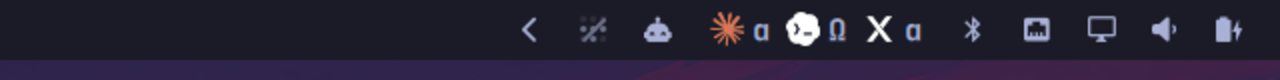
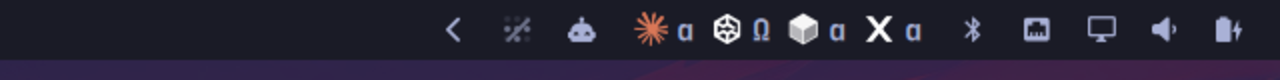
0.5.0: instant settings, activity meters, all-tools mode, brand-like marks

Changed region(s): [[0.3438, 0.15, 0.6875, 0.575]]

diff --git a/Panel.qml b/Panel.qml
@@ -24,12 +24,18 @@ Panel {
   readonly property color track: Style.selectedFillFor(foreground, Color.accent)
   readonly property string fontFamily: bar ? bar.fontFamily : Style.font.family
 
-  readonly property real warnFraction: Math.max(0.5, Math.min(1, Number(setting("limitWarnPercent", 85)) / 100))
-  readonly property bool showGlyphs: setting("showGlyphs", true) !== false
-  readonly property bool compactBar: setting("compactBar", false) === true
-  readonly property bool barShowUnsigned: setting("barShowUnsigned", false) === true
+  // Widget settings come from shell.json; a change made in the settings page
+  // is applied locally at once and the file catches up when the shell reloads.
+  property var pending: ({})
+  onSettingsChanged: pending = ({})
+  function opt(name, fallback) { return pending[name] !== undefined ? pending[name] : setting(name, fallback) }
+  readonly property real warnFraction: Math.max(0.5, Math.min(1, Number(opt("limitWarnPercent", 85)) / 100))
+  readonly property bool showGlyphs: opt("showGlyphs", true) !== false
+  readonly property bool compactBar: opt("compactBar", false) === true
+  readonly property bool barShowUnsigned: opt("barShowUnsigned", false) === true
+  readonly property bool showAllTools: opt("showAllTools", false) === true
   // "masked" (cyc…@example.com), "hidden" (never shown), or "full"
-  readonly property string emailDisplay: String(setting("emailDisplay", "masked"))
+  readonly property string emailDisplay: String(opt("emailDisplay", "masked"))
 
   // The bar only lists tools you are signed in to (at least one profile);
   // the panel still lists every discovered tool so you can sign the rest in.
@@ -51,13 +57,31 @@ Panel {
     return 0
   }
   readonly property var selectedTool: tools.length > 0 ? tools[selectedToolIndex] : null
-  readonly property var tabProfiles: selectedTool ? selectedTool.profiles : []
+  readonly property var tabProfiles: showAllTools ? profiles : (selectedTool ? selectedTool.profiles : [])
+  readonly property var shownTools: showAllTools ? tools : (selectedTool ? [selectedTool] : [])
   function selectTab(index) {
     if (tools.length === 0) return
     var i = ((index % tools.length) + tools.length) % tools.length
-    selectedToolId = tools[i].id; cursor = 0
+    selectedToolId = tools[i].id
+    if (showAllTools) { var item = blocks.itemAt(i); if (item) panelFlick.contentY = Math.min(item.y + toolsColumn.y, Math.max(0, panelFlick.contentHeight - panelFlick.height)) }
+    else cursor = 0
   }
-  readonly property string legend: "j/k  select account\nEnter  use\ni  sign in\nt  terminal\nh/l  previous / next tool\nr  refresh usage\ns  settings\ne  edit registry\nEsc  back / close"
+  // activity meter for accounts without published limits: today against the 7-day peak
+  function activityFraction(p) {
+    var a = p && p.activity; if (!a) return 0
+    if (a.peakTokens > 0) return Math.max(0, Math.min(1, a.todayTokens / a.peakTokens))
+    if (a.peakPrompts > 0) return Math.max(0, Math.min(1, a.todayPrompts / a.peakPrompts))
+    return a.todayPrompts > 0 || a.todaySessions > 0 ? 1 : 0
+  }
+  function activityText(p) {
+    var a = p && p.activity; if (!a) return ""
+    var bits = []
+    if (a.todayPrompts) bits.push(a.todayPrompts + (a.todayPrompts === 1 ? " prompt" : " prompts"))
+    if (a.todayTokens) bits.push(a.todayTokens >= 1e6 ? (a.todayTokens / 1e6).toFixed(1) + "M tokens" : a.todayTokens >= 1e3 ? Math.round(a.todayTokens / 1e3) + "k tokens" : a.todayTokens + " tokens")
+    if (!bits.length && a.todaySessions) bits.push(a.todaySessions + (a.todaySessions === 1 ? " session" : " sessions"))
+    return bits.join(" · ") || "nothing yet"
+  }
+  readonly property string legend: "j/k  select account\nEnter  use\ni  sign in\nt  terminal\nh/l  previous / next tool\na  all tools / one tool\nr  refresh usage\ns  settings\ne  edit registry\nEsc  back / close"
 
   readonly property var tools: accounts.tools
   readonly property var profiles: accounts.profiles
@@ -161,10 +185,11 @@ Panel {
 
   // ---- actions ----
   function moveCursor(dy) { if (tabProfiles.length === 0) return; cursorActive = true; cursor = ((cursor + dy) % tabProfiles.length + tabProfiles.length) % tabProfiles.length }
-  function tabIndexOf(p) { for (var i = 0; i < tabProfiles.length; i++) if (tabProfiles[i].id === p.id) return i; return -1 }
+  function tabIndexOf(p) { for (var i = 0; i < tabProfiles.length; i++) if (tabProfiles[i].id === p.id && tabProfiles[i].tool === p.tool) return i; return -1 }
   // widget settings live in shell.json; omarchy-bar set writes them and the shell hot-reloads
   function setWidgetSetting(key, value, json) {
     if (!bar) return
+    var next = {}; for (var k in pending) next[k] = pending[k]; next[key] = value; pending = next
     bar.run("omarchy-bar set " + shellQuote(moduleName) + " " + shellQuote(key) + " " + shellQuote(String(value)) + (json ? " --json" : ""))
   }
   function useCursor() { var p = cursorProfile; if (p && !p.active) accounts.use(p.tool, p.id) }
@@ -191,6 +216,7 @@ Panel {
     function next(tool: string): string { root.nextTool(tool); return "ok" }
     function status(): string { return JSON.stringify(root.profiles) }
     function settings(): void { root.open(); root.view = "settings" }
+    function tab(tool: string): string { for (var i = 0; i < root.tools.length; i++) if (root.tools[i].id === tool) { root.selectTab(i); root.open(); root.view = "accounts"; return "ok" } return "unknown tool" }
   }
 
   visible: accounts.available && (root.barTools.length > 0 || root.tools.length > 0)
@@ -311,6 +337,7 @@ Panel {
         if (t === "r" || t === "R") root.refreshNow()
         else if (t === "s" || t === "S") root.view = root.view === "settings" ? "accounts" : "settings"
         else if (t === "e" || t === "E") root.openEditor()
+        else if (t === "a" || t === "A") root.setWidgetSetting("showAllTools", !root.showAllTools, true)
         else if (root.view !== "accounts") return
         else if (t === "i" || t === "I") root.loginCursor()
         else if (t === "t" || t === "T") root.shellCursor()
@@ -494,9 +521,23 @@ Panel {
               }
             }
 
-            // ---------- Selected tool ----------
+            // ---------- Tool blocks: one (tab mode) or all ----------
+            Column {
+              id: toolsColumn
+              width: parent.width
+              spacing: Style.space(10)
+              Repeater {
+                id: blocks
+                model: root.shownTools
+                Column {
+                  id: block
+                  required property var modelData
+                  required property int index
+                  readonly property var tool: modelData
+                  width: toolsColumn.width
+                  spacing: Style.space(4)
             Item {
-              visible: !!root.selectedTool
+              visible: !!block.tool
               width: parent.width
               height: Style.space(22)
               Row {
@@ -505,12 +546,12 @@ Panel {
                 spacing: Style.space(6)
                 PanelSectionHeader {
                   anchors.verticalCenter: parent.verticalCenter
-                  text: root.selectedTool ? root.selectedTool.name.toUpperCase() + " ACCOUNTS" : ""
+                  text: block.tool ? block.tool.name.toUpperCase() + " ACCOUNTS" : ""
                   foreground: root.foreground
                   fontFamily: root.fontFamily
                 }
                 Text {
-                  visible: !!root.selectedTool && !root.selectedTool.hasUsage
+                  visible: !!block.tool && !block.tool.hasUsage
                   anchors.verticalCenter: parent.verticalCenter
                   textFormat: Text.PlainText
                   text: "· no usage feed"
@@ -524,21 +565,21 @@ Panel {
                 anchors.verticalCenter: parent.verticalCenter
                 spacing: Style.space(6)
                 Rectangle {
-                  visible: !!root.selectedTool && root.selectedTool.autoRotate
+                  visible: !!block.tool && block.tool.autoRotate
                   width: autoTxt.implicitWidth + Style.space(12); height: Style.space(16); radius: height / 2
                   color: root.alpha(root.accent, 0.12); border.width: 1; border.color: root.alpha(root.accent, 0.35)
                   Text { id: autoTxt; anchors.centerIn: parent; textFormat: Text.PlainText; text: " auto"; color: root.accent; font.family: root.fontFamily; font.pixelSize: Style.font.caption }
                 }
                 Rectangle {
                   id: activePill
-                  visible: !!root.selectedTool && !!root.selectedTool.active
+                  visible: !!block.tool && !!block.tool.active
                   width: activeTxt.implicitWidth + Style.space(14); height: Style.space(16); radius: height / 2
                   color: root.alpha(root.accent, 0.12); border.width: 1; border.color: root.alpha(root.accent, 0.35)
-                  Text { id: activeTxt; anchors.centerIn: parent; textFormat: Text.PlainText; text: root.selectedTool && root.selectedTool.active ? "● " + root.selectedTool.active.label + "  " : ""; color: root.accent; font.family: root.fontFamily; font.pixelSize: Style.font.caption }
+                  Text { id: activeTxt; anchors.centerIn: parent; textFormat: Text.PlainText; text: block.tool && block.tool.active ? "● " + block.tool.active.label + "  " : ""; color: root.accent; font.family: root.fontFamily; font.pixelSize: Style.font.caption }
                   MouseArea {
                     anchors.fill: parent; hoverEnabled: true; cursorShape: Qt.PointingHandCursor
-                    onClicked: if (root.selectedTool) root.nextTool(root.selectedTool.id)
-                    onEntered: if (root.bar) root.bar.showTooltip(activePill, "Click: switch to the next " + (root.selectedTool ? root.selectedTool.name : "") + " account")
+                    onClicked: if (block.tool) root.nextTool(block.tool.id)
+                    onEntered: if (root.bar) root.bar.showTooltip(activePill, "Click: switch to the next " + (block.tool ? block.tool.name : "") + " account")
                     onExited: if (root.bar) root.bar.hideTooltip(activePill)
                   }
                 }
@@ -546,7 +587,7 @@ Panel {
             }
 
             Repeater {
-              model: root.tabProfiles
+              model: block.tool ? block.tool.profiles : []
               Rectangle {
                 id: row
                 required property var modelData
@@ -613,7 +654,7 @@ Panel {
                     spacing: Style.space(1)
                     Text {
                       textFormat: Text.PlainText
-                      text: row.p.label + (root.headroomId(root.selectedTool) === row.p.id ? " ▲" : "")
+                      text: row.p.label + (root.headroomId(block.tool) === row.p.id ? " ▲" : "")
                       color: root.foreground; font.family: root.fontFamily; font.pixelSize: Style.font.body; font.bold: true
                       elide: Text.ElideRight; width: parent.width
                     }
@@ -695,13 +736,27 @@ Panel {
                       text: "usage " + root.agoLabel(row.p.usageUpdatedAt)
                       color: root.faint; font.family: root.fontFamily; font.pixelSize: Style.font.caption
                     }
+                    // no published limits: an activity meter, today against the 7-day peak
+                    Column {
+                      visible: row.p.signedIn && (row.p.limits || []).length === 0 && !!row.p.activity
+                      width: info.width
+                      spacing: Style.space(2)
+                      Item {
+                        width: parent.width; height: actLabel.implicitHeight
+                        Text { id: actLabel; anchors.left: parent.left; textFormat: Text.PlainText; text: "Today" + (row.p.activity && row.p.activity.estimated ? " · est." : ""); color: root.dim; font.family: root.fontFamily; font.pixelSize: Style.font.caption }
+                        Text { anchors.left: actLabel.right; anchors.leftMargin: Style.space(8); anchors.right: parent.right; horizontalAlignment: Text.AlignRight; elide: Text.ElideLeft; textFormat: Text.PlainText; text: root.activityText(row.p); color: root.foreground; font.family: root.fontFamily; font.pixelSize: Style.font.caption }
+                      }
+                      Rectangle {
+                        width: parent.width; height: Math.max(3, Style.space(4)); radius: height / 2
+                        color: root.alpha(root.foreground, 0.13)
+                        Rectangle { width: parent.width * root.activityFraction(row.p); height: parent.height; radius: parent.radius; color: root.alpha(root.accent, 0.75) }
+                      }
+                      Text { textFormat: Text.PlainText; text: "vs. busiest day this week · no limits published"; color: root.faint; font.family: root.fontFamily; font.pixelSize: Style.font.caption }
+                    }
                     Text {
-                      visible: row.p.signedIn && (row.p.limits || []).length === 0
+                      visible: row.p.signedIn && (row.p.limits || []).length === 0 && !row.p.activity
                       textFormat: Text.PlainText
-                      text: row.p.hasUsage === false ? "No limits published for this tool."
-                        : (row.p.todayPrompts !== null && row.p.todayPrompts !== undefined
-                           ? "today " + row.p.todayPrompts + " prompts · estimated from local sessions"
-                           : (row.p.usageStatusText || "No usage yet — press r after the first session."))
+                      text: row.p.hasUsage === false ? "No limits published for this tool." : (row.p.usageStatusText || "No usage yet — press r after the first session.")
                       color: root.faint; font.family: root.fontFamily; font.pixelSize: Style.font.caption
                       width: info.width; wrapMode: Text.WordWrap
                     }
@@ -743,7 +798,10 @@ Panel {
                   }
                 }
               }
+                }
+              }
             }
+          }
           }
 
           // =================== SETTINGS VIEW ===================
@@ -883,6 +941,7 @@ Panel {
               }
               Repeater {
                 model: [
+                  { key: "showAllTools", label: "Show every tool's accounts at once (a)", on: root.showAllTools },
                   { key: "showGlyphs", label: "Show account letters (α/Ω) in the bar", on: root.showGlyphs },
                   { key: "compactBar", label: "Compact bar: letters only when something needs attention", on: root.compactBar },
                   { key: "barShowUnsigned", label: "Show tools with no signed-in account in the bar", on: root.barShowUnsigned }

diff --git a/Accounts.qml b/Accounts.qml
@@ -128,9 +128,24 @@ Item {
   }
   function checkSetup() { if (!setupProcess.running) setupProcess.running = true }
   function runSetup() { run(["setup"]) }
-  function setAutoRotate(tool, on) { run(["config", tool, "autoRotate", on ? "on" : "off"]) }
-  function setBarHidden(tool, on) { run(["config", tool, "barHidden", on ? "on" : "off"]) }
-  function setAlert(key, value) { run(["config", "alerts", key, String(value)]) }
+  // Settings changes show immediately; the CLI write and the status re-read
+  // that follows confirm (or correct) them a moment later.
+  function patchTool(tool, key, value) {
+    var next = []
+    for (var i = 0; i < profiles.length; i++) {
+      var p = profiles[i]
+      if (p.tool === tool) { var c = {}; for (var k in p) c[k] = p[k]; c[key] = value; next.push(c) } else next.push(p)
+    }
+    profiles = next
+  }
+  function setAutoRotate(tool, on) { patchTool(tool, "autoRotate", !!on); run(["config", tool, "autoRotate", on ? "on" : "off"]) }
+  function setBarHidden(tool, on) { patchTool(tool, "barHidden", !!on); run(["config", tool, "barHidden", on ? "on" : "off"]) }
+  function setAlert(key, value) {
+    var a = {}; for (var k in alerts) a[k] = alerts[k]
+    a[key] = key === "enabled" ? (value === "on" || value === true) : Number(value)
+    alerts = a
+    run(["config", "alerts", key, String(value)])
+  }
   function removeSetup() { run(["setup", "--remove"]) }
 
   function use(tool, profile) { run(["use", tool, profile]) }

diff --git a/README.md b/README.md
@@ -25,8 +25,11 @@ CLI you describe in a small JSON file.
   meters and reset times. **Login** is always visible; **Use** and **Shell**
   appear when you hover or move the cursor onto a card. The `● Alpha` pill
   cycles the tool's active account. Keys: `j`/`k` select, `Enter` use,
-  `i` sign in, `t` terminal, `h`/`l` previous/next tool, `r` refresh,
-  `s` settings, `e` edit the registry, `?` legend, `Esc` back/close.
+  `i` sign in, `t` terminal, `h`/`l` previous/next tool, `a` all tools /
+  one tab, `r` refresh, `s` settings, `e` edit the registry, `?` legend,
+  `Esc` back/close. Accounts whose CLI publishes no limits (Grok, Cursor,
+  Gemini) get an activity meter instead — today's prompts/tokens against the
+  busiest day of the week, estimated from local session files.
 - **Settings page** (gear or `s`): alert and auto-rotate thresholds as
   sliders, notifications on/off, per-tool auto-rotate and in-bar switches,
   email display, bar options, the setup checklist with Run/Remove, and the
@@ -141,6 +144,7 @@ up only when its binary is on `PATH` and the definition is `enabled`.
 | `compactBar` | false | letters only for tools that need attention |
 | `barShowUnsigned` | false | also show tools with no signed-in profile in the bar |
 | `emailDisplay` | masked | `masked` (cyc…@example.com), `hidden`, or `full` |
+| `showAllTools` | false | every tool's accounts at once instead of one tab (`a` in the panel) |
 
 Thresholds for alerts and auto-rotate live in the registry (the settings page
 edits the same values): `agent-acct config alerts warnAt 0.85`,
@@ -182,9 +186,10 @@ edits the same values): `agent-acct config alerts warnAt 0.85`,
 
 ## IPC
 
-`omarchy-shell io.github.rationalseer.multi-account-agent-manager <open|close|toggle|settings|refresh|next <tool>|status>`
+`omarchy-shell io.github.rationalseer.multi-account-agent-manager <open|close|toggle|settings|tab <tool>|refresh|next <tool>|status>`
 
 ## License
 
-MIT. Provider marks for Claude and Codex are the ones shipped with Omarchy's
-first-party Agents plugin (MIT); the other marks are simple original shapes.
+MIT. The Claude mark is the one shipped with Omarchy's first-party Agents
+plugin (MIT); the other marks are simple original shapes drawn to be
+reminiscent of each product, not copies of their logos.

diff --git a/CHANGELOG.md b/CHANGELOG.md
@@ -1,5 +1,20 @@
 # Changelog
 
+## 0.5.0 — 2026-09-18
+
+- Settings apply instantly (optimistic), confirmed by the status re-read;
+  `agent-acct status` is ~3× faster (one registry/tool lookup per profile,
+  cached CLI email lookups).
+- Activity meters for accounts without published limits (Grok, Cursor,
+  Gemini): today's prompts/tokens against the week's busiest day.
+- Cursor usage is read from its agent transcripts; link-mode usage is
+  attributed to the active slot only.
+- `showAllTools` setting (`a` key): every tool's accounts at once; tabs then
+  scroll to the tool.
+- Redrawn provider marks with brand-like shapes and colours (Gemini gradient,
+  Codex knot, Cursor cube, Grok X, OpenCode tile).
+- IPC `tab <tool>`.
+
 ## 0.4.0 — 2026-09-18
 
 - Panel v3: one tab per tool instead of stacked sections; Use/Shell appear on
